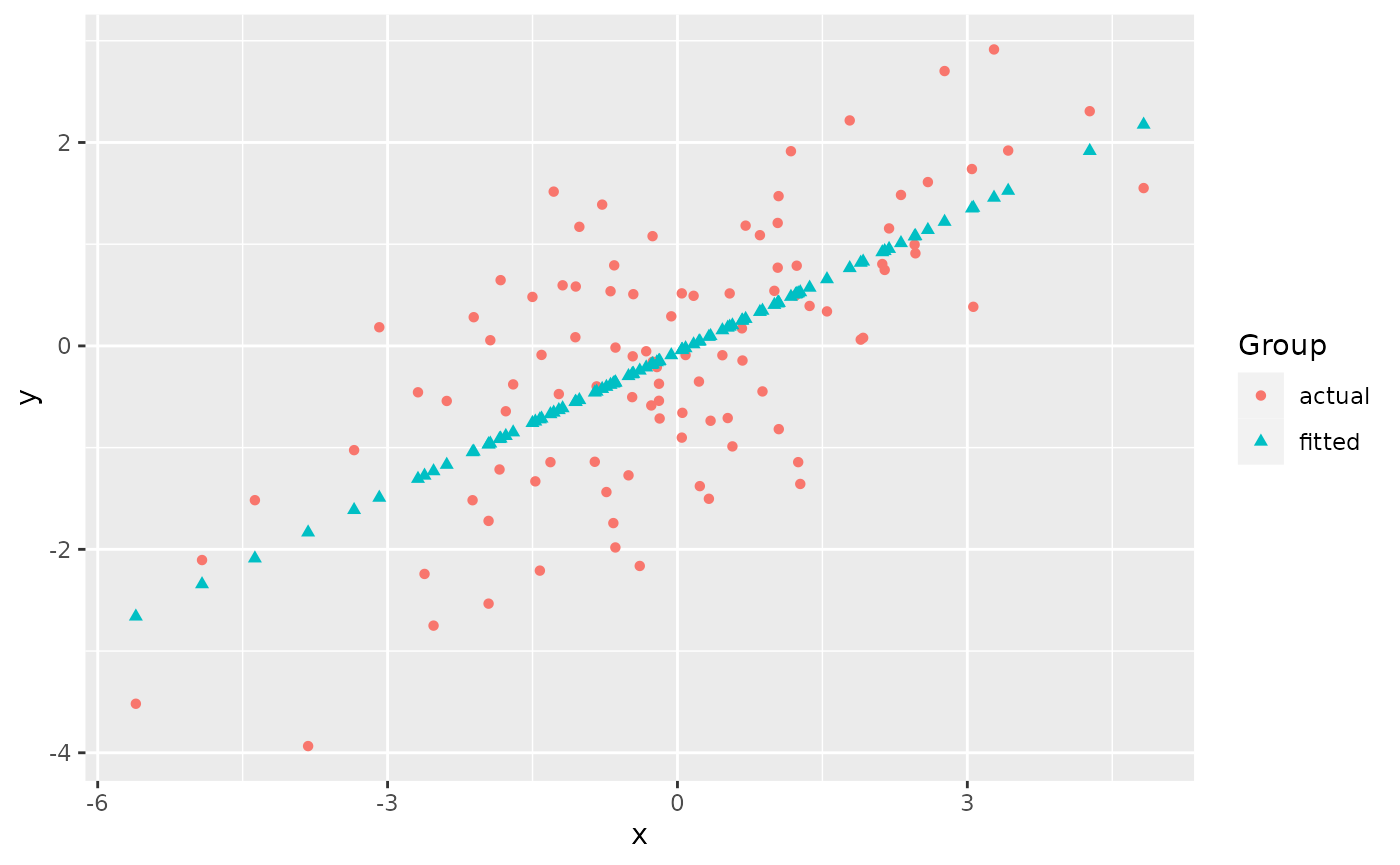
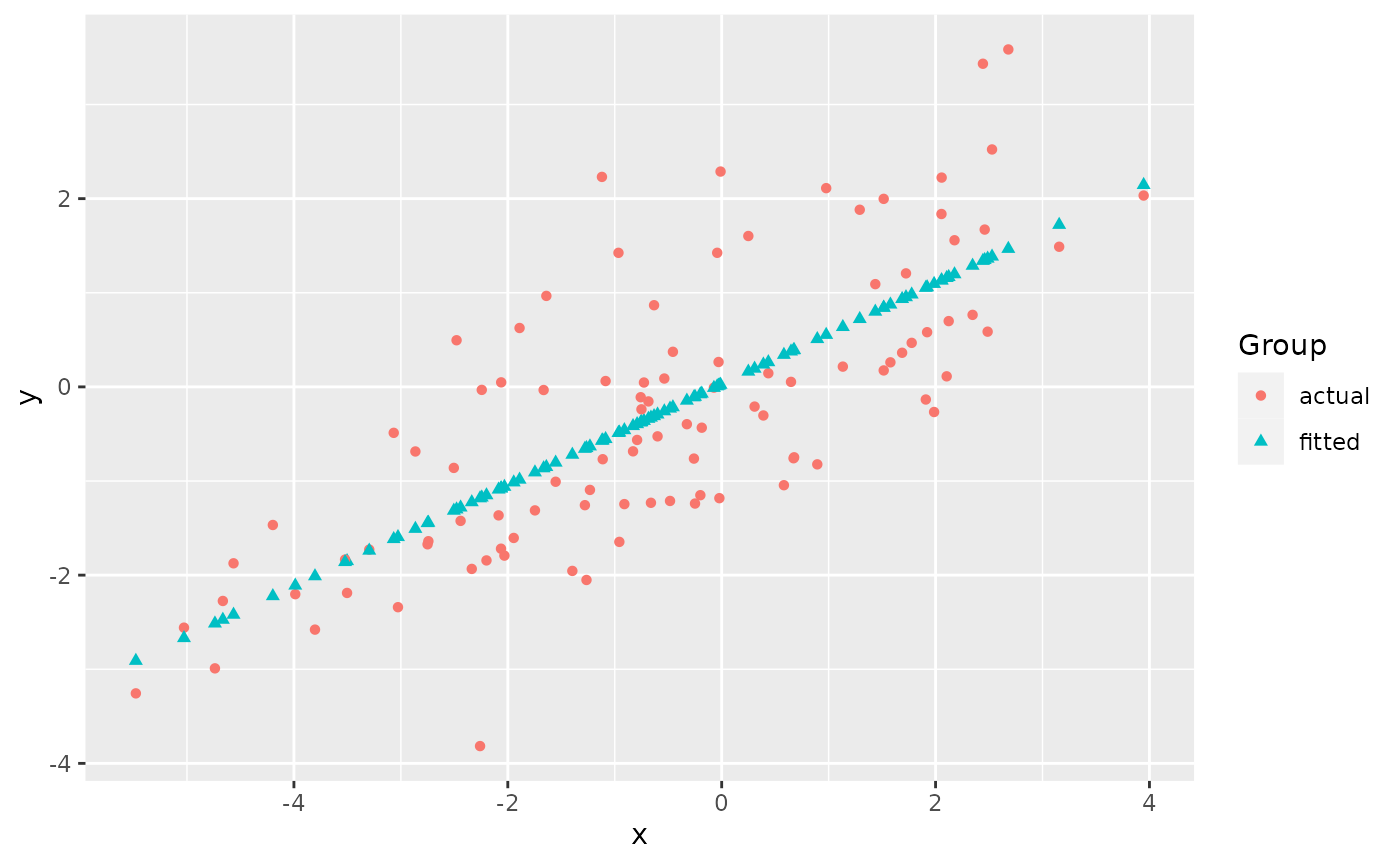
Built site for ggmatplot: 0.1.0.9000@d9277b4

diff --git a/articles/ggmatplot.html b/articles/ggmatplot.html
@@ -103,7 +103,7 @@
 <span class="va">x</span> <span class="op">&lt;-</span> <span class="fu"><a href="https://rdrr.io/r/base/c.html" class="external-link">c</a></span><span class="op">(</span><span class="fu"><a href="https://rdrr.io/r/stats/Normal.html" class="external-link">rnorm</a></span><span class="op">(</span><span class="fl">100</span>, sd <span class="op">=</span> <span class="fl">2</span><span class="op">)</span><span class="op">)</span>
 
 <span class="fu"><a href="https://rdrr.io/r/utils/head.html" class="external-link">head</a></span><span class="op">(</span><span class="va">x</span><span class="op">)</span>
-<span class="co">#&gt; [1]  0.04489958  0.66722317 -0.21293484  1.78282290 -3.82248276 -1.47085652</span>
+<span class="co">#&gt; [1] -1.55260698 -2.47914605 -3.29566954 -4.19715383  0.64818377 -0.02155941</span>
 
 <span class="co"># matrix z</span>
 <span class="va">y</span> <span class="op">&lt;-</span> <span class="va">x</span> <span class="op">*</span> <span class="fl">0.5</span> <span class="op">+</span> <span class="fu"><a href="https://rdrr.io/r/stats/Normal.html" class="external-link">rnorm</a></span><span class="op">(</span><span class="fl">100</span>, sd <span class="op">=</span> <span class="fl">1</span><span class="op">)</span>
@@ -112,13 +112,13 @@
            fitted <span class="op">=</span> <span class="va">fit.y</span><span class="op">)</span>
 
 <span class="fu"><a href="https://rdrr.io/r/utils/head.html" class="external-link">head</a></span><span class="op">(</span><span class="va">z</span><span class="op">)</span>
-<span class="co">#&gt;       actual     fitted</span>
-<span class="co">#&gt; 1  0.5165990 -0.0405869</span>
-<span class="co">#&gt; 2  0.1726161  0.2479526</span>
-<span class="co">#&gt; 3 -0.2081343 -0.1601315</span>
-<span class="co">#&gt; 4  2.2167722  0.7651990</span>
-<span class="co">#&gt; 5 -3.9341939 -1.8336937</span>
-<span class="co">#&gt; 6 -1.3315312 -0.7433653</span></code></pre></div>
+<span class="co">#&gt;       actual      fitted</span>
+<span class="co">#&gt; 1 -1.0078294 -0.80420995</span>
+<span class="co">#&gt; 2  0.4955122 -1.30129334</span>
+<span class="co">#&gt; 3 -1.7287388 -1.73935393</span>
+<span class="co">#&gt; 4 -1.4672783 -2.22299555</span>
+<span class="co">#&gt; 5  0.0532506  0.37650280</span>
+<span class="co">#&gt; 6 -1.1823233  0.01718908</span></code></pre></div>
 <p><code>ggmatplot</code> plots vector <code>x</code> against each column of matrix <code>z</code> using the default <code>plot_type = "point"</code>. This will be represented on the resulting plot as two groups, identified using different shapes and colors.</p>
 <div class="sourceCode" id="cb2"><pre class="downlit sourceCode r">
 <code class="sourceCode R"><span class="kw"><a href="https://rdrr.io/r/base/library.html" class="external-link">library</a></span><span class="op">(</span><span class="va"><a href="https://github.com/xuan-liang/ggmatplot" class="external-link">ggmatplot</a></span><span class="op">)</span>
